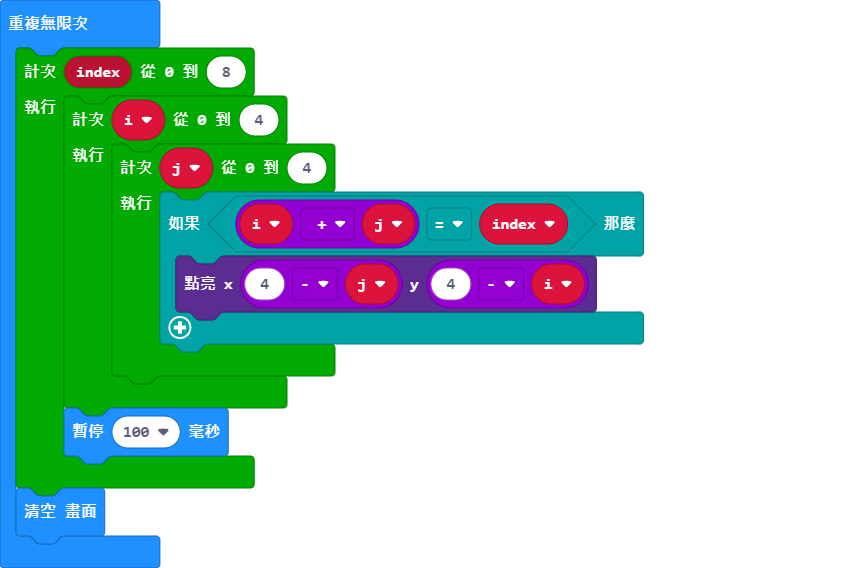
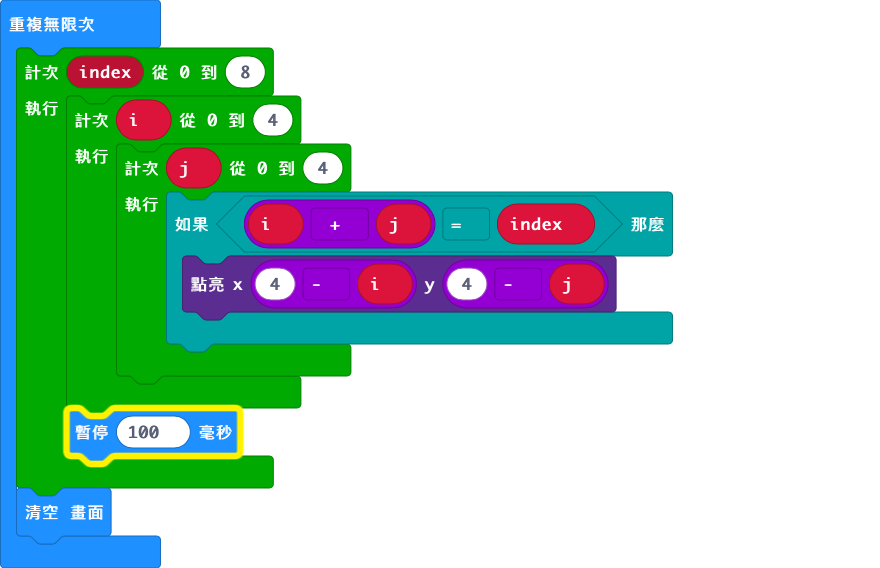
Update main.blocks, main.ts

diff --git a/main.ts b/main.ts
@@ -3,7 +3,7 @@ basic.forever(function () {
         for (let i = 0; i <= 4; i++) {
             for (let j = 0; j <= 4; j++) {
                 if (i + j == index) {
-                    led.plot(4 - j, 4 - i)
+                    led.plot(4 - i, 4 - j)
                 }
             }
         }
